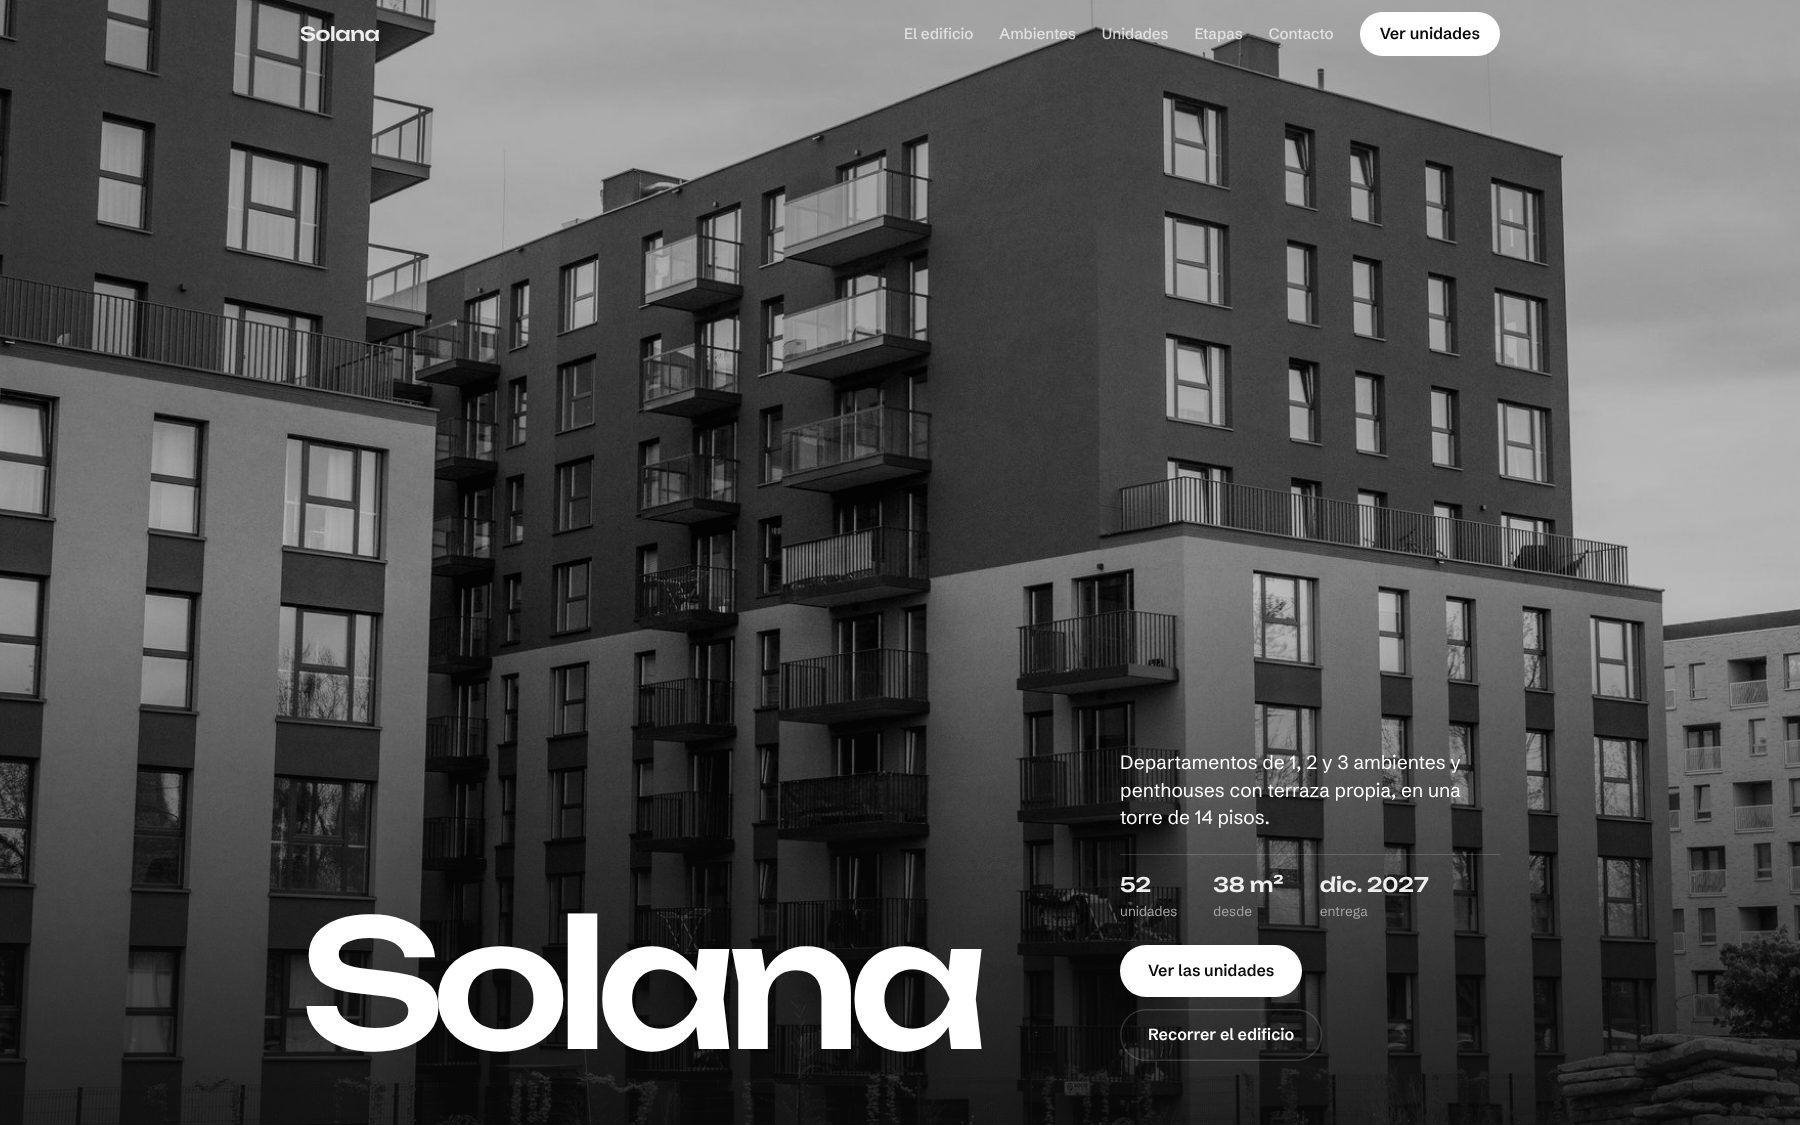
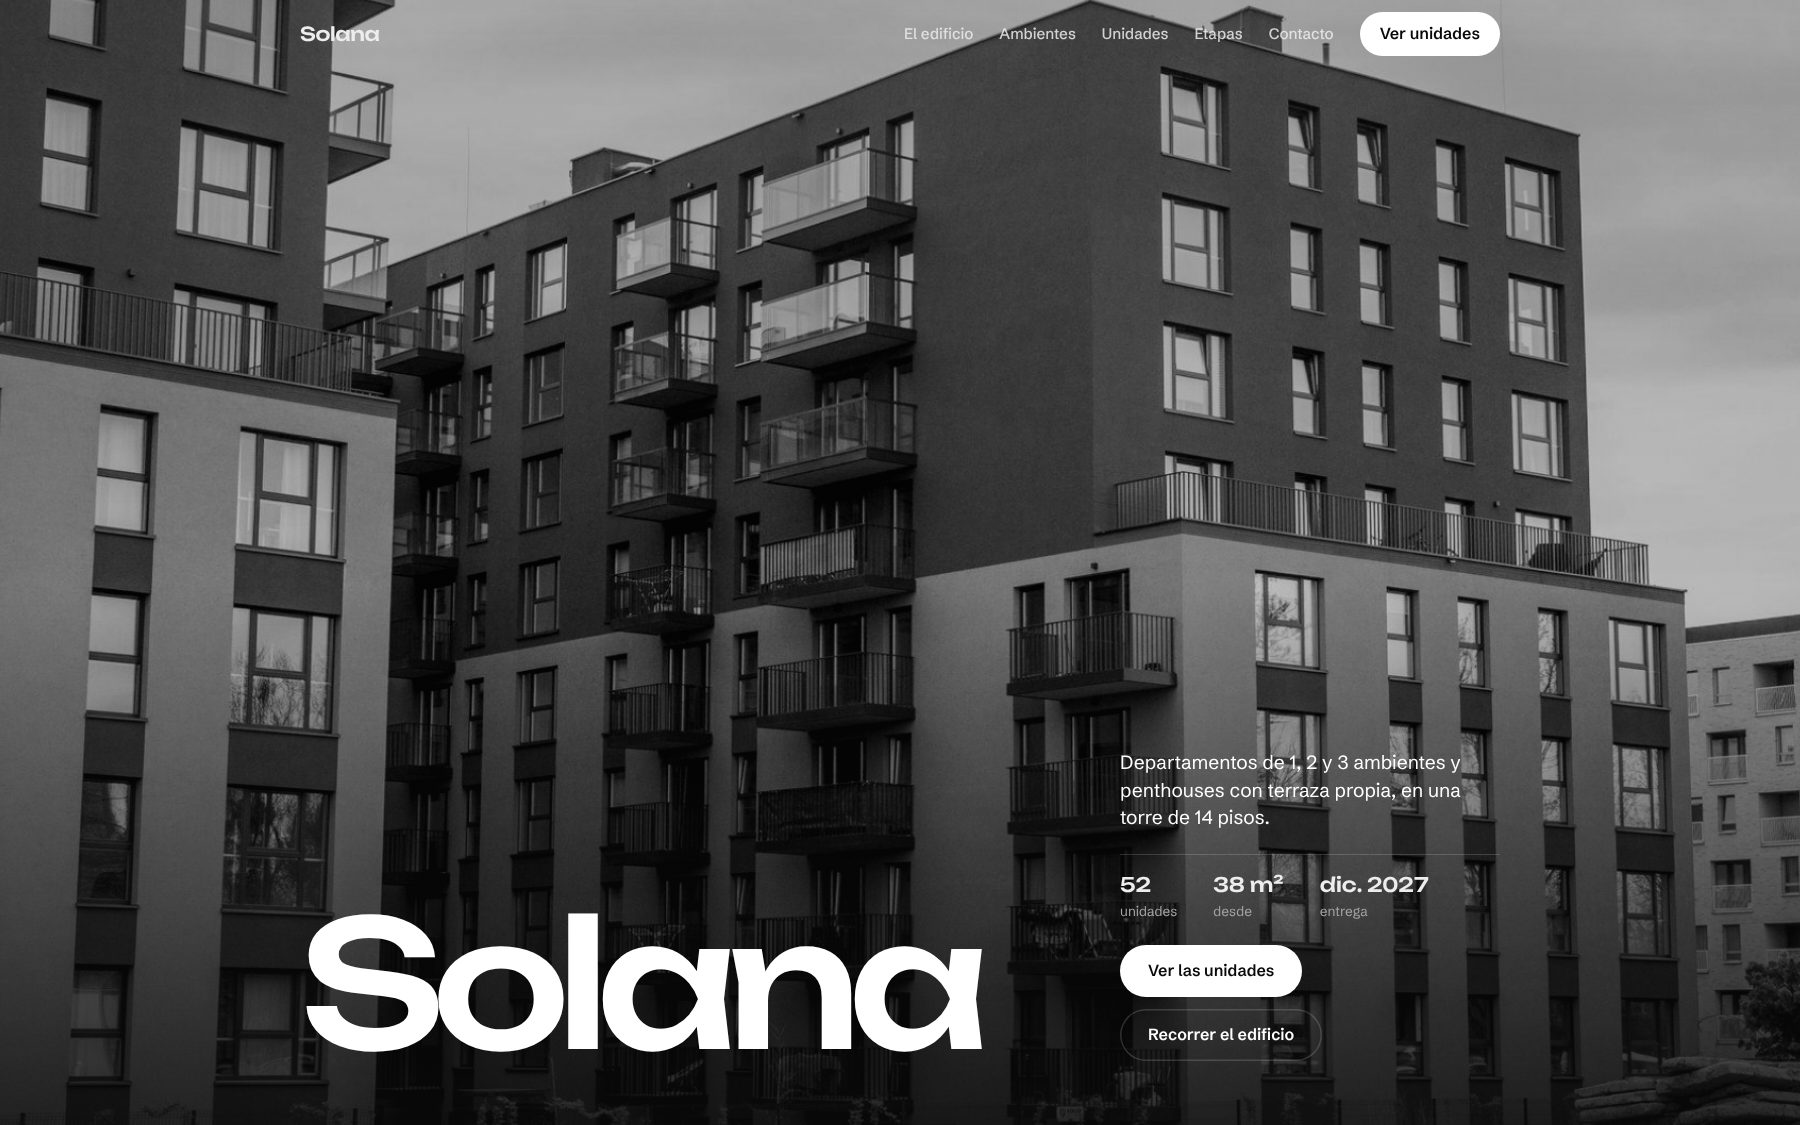
Arce: menús como La Feliz (catálogo, colecciones, nosotros) y secciones de taller, materiales y tienda; Lumen reordena proyectos
Claude-Session: https://claude.ai/code/session_01Heo4jEQcTih4G2tBioNUKb

diff --git a/sitio/lumen-studio/catalogo/index.html b/sitio/lumen-studio/catalogo/index.html
@@ -232,6 +232,32 @@
   .mega-links{display:flex;flex-direction:column;border-bottom:1px solid var(--linea)}
   .mega-links a{min-height:48px;display:flex;align-items:center;font-size:1.15rem;font-weight:500}
   @media (max-width:900px){.solo-m{display:inline-flex!important}.mega-links{display:flex}}
+
+  .mega-cat{display:grid;grid-template-columns:200px minmax(0,1.4fr) minmax(0,3fr);gap:clamp(24px,4vw,56px);padding-top:22px}
+  .mega-cat ul{list-style:none}
+  .mc-sel button,.mc-cats button{min-height:40px;font-size:1.1rem;font-weight:500;text-align:left}
+  .mc-cats{columns:2;column-gap:36px}
+  .mc-cats button{font-size:1.05rem;display:block;width:100%}
+  @media (hover:hover){.mc-sel button:hover,.mc-cats button:hover{text-decoration:underline;text-underline-offset:5px}}
+  .mega-g.sub{padding-top:18px;gap:22px}
+  .mega-g.c4{grid-template-columns:repeat(4,minmax(0,1fr))}
+  .mega-g.sub button{aspect-ratio:auto;overflow:visible;color:inherit;background:none;border-radius:0;display:grid;gap:10px;align-content:start}
+  .mega-g.sub button::after{display:none}
+  .mega-g.sub .im{position:relative;display:block;aspect-ratio:4/3;overflow:hidden;border-radius:16px;background:var(--papel-2)}
+  .mega-g.sub .im img{position:absolute;inset:0;width:100%;height:100%;object-fit:cover}
+  .mega-g.sub b{font-weight:500;font-size:1.2rem;letter-spacing:-.01em}
+  .mega-g.sub:not(.c4){grid-template-columns:repeat(4,minmax(0,1fr))}
+  @media (max-width:900px){.mega-cat{grid-template-columns:minmax(0,1fr)}.mega-g.c4,.mega-g.sub:not(.c4){grid-template-columns:repeat(2,minmax(0,1fr))}.mc-cats{columns:2}}
+
+  .galeria{padding-block:clamp(48px,7vw,96px) 0}
+  .galeria h2{font-size:1.5rem;font-weight:500;margin-bottom:20px}
+  .gal-g{display:grid;grid-template-columns:repeat(4,minmax(0,1fr));gap:clamp(10px,1.4vw,18px)}
+  .gal-g img{width:100%;aspect-ratio:1;object-fit:cover;border-radius:16px}
+  @media (max-width:700px){.gal-g{grid-template-columns:repeat(2,minmax(0,1fr))}}
+  .lista{padding-block:clamp(56px,8vw,110px);text-align:center}
+  .lista h2{font-size:clamp(1.6rem,3vw,2.4rem)}
+  .lista p{color:var(--suave);margin:10px auto 22px;max-width:46ch}
+  .lista .btn-o{align-self:auto}
 </style>
 </head>
 <body>
@@ -248,9 +274,15 @@
   </div>
   <div class="mega" id="mega" aria-label="Menú">
     <div class="mega-links solo-m"><a href="#/catalogo">Ver todo el catálogo</a><a href="#contacto">Contacto</a></div>
-    <section class="mega-p" data-p="cat"><p class="mega-t">Categorías</p><div class="mega-g" id="mg-cat"></div></section>
+    <section class="mega-p" data-p="cat">
+      <div class="mega-cat">
+        <ul class="mc-sel"><li><button type="button" data-t="d">Destacados</button></li><li><button type="button" data-t="c">Clásicos</button></li><li><button type="button" data-t="n">Nuevos</button></li></ul>
+        <div><p class="mega-t" style="margin-top:0">Categorías</p><ul class="mc-cats" id="mc-cats"></ul></div>
+        <div class="mega-g sub" id="mg-cat"></div>
+      </div>
+    </section>
     <section class="mega-p" data-p="col"><p class="mega-t">Últimas colecciones</p><div class="mega-g" id="mega-g"></div></section>
-    <section class="mega-p" data-p="nos"><p class="mega-t">Conocé Arce</p><div class="mega-g" id="mg-nos"></div></section>
+    <section class="mega-p" data-p="nos"><div class="mega-g sub c4" id="mg-nos"></div></section>
   </div>
 </header>
 
@@ -296,8 +328,28 @@
   </section>
 
   <section class="div2 inv" id="taller">
-    <div class="img"><img src="img/dormitorio.jpg" alt="Dormitorio luminoso con cama y cortinas" loading="lazy" width="1500" height="1000"></div>
-    <div class="info"><small>Nuestro taller</small><h2>Diseñamos, fabricamos y probamos cada pieza</h2><p>Trabajamos con maderas macizas, piedra y tapizados en lino. Cada pieza se hace por encargo y se entrega armada.</p><button type="button" class="btn-o" data-ir="Habitación">Ver piezas de habitación</button></div>
+    <div class="img"><img src="img/taller.jpg" alt="Manos lijando una pieza de madera en el taller" loading="lazy" width="1400" height="933"></div>
+    <div class="info"><small>Nuestro taller</small><h2>Diseñamos, fabricamos y probamos cada pieza</h2><p>Trabajamos con maderas macizas, piedra y tapizados en lino. Cada pieza se hace por encargo y se entrega armada.</p><button type="button" class="btn-o" data-ir="">Ver el catálogo</button></div>
+  </section>
+
+  <section class="div2" id="materiales">
+    <div class="img"><img src="img/materiales.jpg" alt="Primer plano de una piedra con vetas suaves" loading="lazy" width="1050" height="1400" style="object-position:50% 40%"></div>
+    <div class="info"><small>Materiales</small><h2>Piedra, madera y lino, elegidos a mano</h2><p>Antes de fabricar, mostramos las muestras en el taller para que elijas el acabado de cada pieza.</p><button type="button" class="btn-o" data-ir="">Ver el catálogo</button></div>
+  </section>
+
+  <section class="galeria w">
+    <h2>En el taller</h2>
+    <div class="gal-g">
+      <img src="img/diseno.jpg" alt="Manos dibujando el boceto de una pieza" loading="lazy" width="1400" height="933">
+      <img src="img/cepillo.jpg" alt="Cepillado de una tabla de madera" loading="lazy" width="1400" height="933">
+      <img src="img/muestras.jpg" alt="Muestras de telas, maderas y piedras" loading="lazy" width="1400" height="933">
+      <img src="img/travertino.jpg" alt="Primer plano de una piedra con vetas anaranjadas" loading="lazy" width="933" height="1400">
+    </div>
+  </section>
+
+  <section class="div2 inv" id="tienda">
+    <div class="img"><img src="img/tienda.jpg" alt="Rincón del showroom con un sillón y un arco" loading="lazy" width="935" height="1400" style="object-position:50% 60%"></div>
+    <div class="info"><small>Nuestra tienda</small><h2>Vení a conocer nuestro espacio</h2><p>Avenida del Sol 1200. De lunes a sábado, de 10 a 19 h. Podés ver las piezas y las muestras de materiales.</p><a class="btn-o" href="https://www.google.com/maps/search/?api=1&query=Avenida%20del%20Sol%201200" target="_blank" rel="noopener">Cómo llegar</a></div>
   </section>
 
   <section class="hecho" id="hecho">
@@ -306,6 +358,11 @@
       <div><h3>Entrega y armado</h3><p>Llevamos las piezas a tu casa y las dejamos armadas en su lugar.</p></div>
       <div><h3>Presupuesto sin cargo</h3><p>Sumá lo que te interese a tu presupuesto y lo enviás por WhatsApp para coordinar.</p></div>
     </div>
+  </section>
+  <section class="lista w">
+    <h2>Enterate de las novedades</h2>
+    <p>Escribinos y te avisamos cuando haya nuevas colecciones o piezas disponibles.</p>
+    <a class="btn-o" href="https://wa.me/5491100000000?text=%C2%A1Hola!%20Quiero%20recibir%20las%20novedades%20de%20Arce.%20Muchas%20gracias." target="_blank" rel="noopener">Quiero recibir novedades</a>
   </section>
 </main>
 
@@ -326,7 +383,7 @@
   <div class="pie">© 2026 Arce</div>
 </footer>
 
-<div hidden id="fuentes-img"><img data-k="living" src="img/living.jpg" alt=""><img data-k="mesas" src="img/mesas.jpg" alt=""><img data-k="comedor" src="img/comedor.jpg" alt=""><img data-k="cocina" src="img/cocina.jpg" alt=""><img data-k="barra" src="img/barra.jpg" alt=""><img data-k="cama" src="img/cama.jpg" alt=""><img data-k="lampara" src="img/lampara.jpg" alt=""><img data-k="dormitorio" src="img/dormitorio.jpg" alt=""></div>
+<div hidden id="fuentes-img"><img data-k="taller" src="img/taller.jpg" alt=""><img data-k="diseno" src="img/diseno.jpg" alt=""><img data-k="materiales" src="img/materiales.jpg" alt=""><img data-k="estudio" src="img/estudio.jpg" alt=""><img data-k="tienda" src="img/tienda.jpg" alt=""><img data-k="cepillo" src="img/cepillo.jpg" alt=""><img data-k="muestras" src="img/muestras.jpg" alt=""><img data-k="travertino" src="img/travertino.jpg" alt=""><img data-k="living" src="img/living.jpg" alt=""><img data-k="mesas" src="img/mesas.jpg" alt=""><img data-k="comedor" src="img/comedor.jpg" alt=""><img data-k="cocina" src="img/cocina.jpg" alt=""><img data-k="barra" src="img/barra.jpg" alt=""><img data-k="cama" src="img/cama.jpg" alt=""><img data-k="lampara" src="img/lampara.jpg" alt=""><img data-k="dormitorio" src="img/dormitorio.jpg" alt=""></div>
 <div class="vel" id="vel"></div>
 <aside class="caj" id="caj-pres" role="dialog" aria-modal="true" aria-label="Presupuesto" aria-hidden="true">
   <div class="caj-c"><h2>Presupuesto</h2><button type="button" data-cerrar aria-label="Cerrar">×</button></div>
@@ -397,6 +454,7 @@
   }
   function coincide(p){
     if (F.q && (p.n + " " + p.k + " " + p.col + " " + p.c.join(" ")).toLowerCase().indexOf(F.q.toLowerCase()) < 0) return false;
+    if (F.t && p.t.indexOf(F.t) < 0) return false;
     if (F.k.length && F.k.indexOf(p.k) < 0) return false;
     if (F.col.length && F.col.indexOf(p.col) < 0) return false;
     if (F.amb.length && !p.c.some(function(a){ return F.amb.indexOf(a) > -1; })) return false;
@@ -414,7 +472,7 @@
     pintarCat();
   });
   document.addEventListener("click", function(e){
-    if (e.target.closest("#limpiar")){ F.k = []; F.col = []; F.amb = []; F.q = ""; $("q").value = ""; pintarCat(); }
+    if (e.target.closest("#limpiar")){ F.k = []; F.col = []; F.amb = []; F.q = ""; F.t = ""; $("q").value = ""; pintarCat(); }
     if (e.target.closest("#b-filtros")){ var f = $("filtros"); var ab = f.classList.toggle("ab"); e.target.closest("#b-filtros").setAttribute("aria-expanded", String(ab)); }
   });
   function ir(ambiente){ F = { k: [], col: [], amb: ambiente ? [ambiente] : [], q: "" }; $("q").value = ""; if (location.hash === "#/catalogo") pintarCat(); else location.hash = "#/catalogo"; }
@@ -502,16 +560,13 @@
 
   /* ---- menús desplegables: catálogo, colecciones y nosotros ---- */
   (function(){
-    function unoPor(campo, orden){ var r = [], v = {}; PROD.forEach(function(p){ if (!v[p[campo]]){ v[p[campo]] = 1; r.push(p); } }); return orden ? orden.map(function(n){ return r.filter(function(p){ return p[campo] === n; })[0]; }).filter(Boolean) : r; }
+    function unoPor(campo){ var r = [], v = {}; PROD.forEach(function(p){ if (!v[p[campo]]){ v[p[campo]] = 1; r.push(p); } }); return r; }
     function tarj(img, ox, oy, z, texto, attr){ return '<button type="button" ' + attr + '><img src="' + src(img) + '" alt="" loading="lazy" style="--z:' + z + ';--ox:' + ox + '%;--oy:' + oy + '%"><span>' + texto + '</span></button>'; }
-    $("mg-cat").innerHTML = unoPor("k", ["Sofás", "Mesas", "Sillas y banquetas", "Lámparas", "Camas"]).map(function(p){ return tarj(p.img, p.ox, p.oy, Math.max(1.2, p.z * .8), p.k, 'data-k="' + p.k + '"'); }).join("");
+    function tarj2(img, ox, oy, texto, attr){ return '<button type="button" ' + attr + '><span class="im"><img src="' + src(img) + '" alt="" loading="lazy" style="object-position:' + ox + '% ' + oy + '%"></span><b>' + texto + '</b></button>'; }
+    $("mc-cats").innerHTML = ["Sofás", "Mesas", "Sillas y banquetas", "Sillones y otomanos", "Lámparas", "Camas", "Alfombras", "Muebles de guardado", "Objetos"].map(function(k){ return '<li><button type="button" data-k="' + k + '">' + k + '</button></li>'; }).join("");
+    $("mg-cat").innerHTML = [["living", 70, 62, "Living"], ["comedor", 55, 70, "Comedor"], ["cama", 20, 70, "Habitación"], ["cocina", 70, 70, "Cocina"]].map(function(a){ return tarj2(a[0], a[1], a[2], a[3], 'data-amb="' + a[3] + '"'); }).join("");
     $("mega-g").innerHTML = unoPor("col").slice(0, 5).map(function(p){ return tarj(p.img, p.ox, p.oy, Math.max(1.2, p.z * .8), p.col, 'data-col="' + p.col + '"'); }).join("");
-    $("mg-nos").innerHTML = [
-      ["dormitorio", 50, 60, 1.1, "Nuestro taller", "#taller"],
-      ["barra", 40, 60, 1.3, "Por encargo", "#hecho"],
-      ["living", 70, 60, 1.2, "Entrega y armado", "#hecho"],
-      ["comedor", 55, 65, 1.3, "Contacto", "#contacto"]
-    ].map(function(a){ return tarj(a[0], a[1], a[2], a[3], a[4], 'data-href="' + a[5] + '"'); }).join("");
+    $("mg-nos").innerHTML = [["estudio", 50, 50, "Quiénes somos", "#taller"], ["diseno", 50, 50, "Diseño", "#taller"], ["taller", 50, 50, "Taller", "#taller"], ["materiales", 50, 50, "Materiales", "#materiales"]].map(function(a){ return tarj2(a[0], a[1], a[2], a[3], 'data-href="' + a[4] + '"'); }).join("");
     var h = $("cab"), m = $("mega"), btns = [].slice.call(document.querySelectorAll("[data-mega]")), bm = $("b-menu"), t;
     function abrirM(k){ clearTimeout(t); m.dataset.act = k; h.classList.add("abre-mega"); btns.forEach(function(b){ b.setAttribute("aria-expanded", String(b.dataset.mega === k)); }); }
     function cerrarM(){ clearTimeout(t); h.classList.remove("abre-mega"); delete m.dataset.act; btns.forEach(function(b){ b.setAttribute("aria-expanded", "false"); }); bm.setAttribute("aria-expanded", "false"); }
@@ -527,10 +582,10 @@
     bm.addEventListener("click", function(){ if (h.classList.contains("abre-mega")) cerrarM(); else { abrirM("col"); bm.setAttribute("aria-expanded", "true"); } });
     document.addEventListener("keydown", function(e){ if (e.key === "Escape") cerrarM(); });
     document.addEventListener("click", function(e){
-      var c = e.target.closest("[data-col],[data-k],[data-href]"); if (!c || !m.contains(c)) { if (e.target.closest("#mega a")) cerrarM(); return; }
+      var c = e.target.closest("[data-col],[data-k],[data-href],[data-amb],[data-t]"); if (!c || !m.contains(c)) { if (e.target.closest("#mega a")) cerrarM(); return; }
       cerrarM();
       if (c.dataset.href){ if (location.hash === c.dataset.href){ var el = document.getElementById(c.dataset.href.slice(1)); if (el) el.scrollIntoView(); } else location.hash = c.dataset.href; return; }
-      F = { k: c.dataset.k ? [c.dataset.k] : [], col: c.dataset.col ? [c.dataset.col] : [], amb: [], q: "" }; $("q").value = "";
+      F = { k: c.dataset.k ? [c.dataset.k] : [], col: c.dataset.col ? [c.dataset.col] : [], amb: c.dataset.amb ? [c.dataset.amb] : [], q: "", t: c.dataset.t || "" }; $("q").value = "";
       if (location.hash === "#/catalogo") pintarCat(); else location.hash = "#/catalogo";
     });
   })();

diff --git a/sitio/lumen-studio/index.html b/sitio/lumen-studio/index.html
@@ -74,31 +74,13 @@
     <div class="container">
       <div class="section-head"><h2>Proyectos</h2></div>
       <div class="expand crop" id="expand" role="group" aria-label="Trabajos, pasá el cursor o tocá para ver cada uno">
-        <article class="x-panel" role="button" tabindex="0" aria-expanded="true" aria-label="Oliva Atelier">
-          <img src="img/oliva-desk.jpg" alt="Oliva Atelier, página con reserva de turnos" width="1800" height="1125" loading="lazy">
-          <p class="x-rotulo">Oliva Atelier</p>
+        <article class="x-panel" role="button" tabindex="0" aria-expanded="true" aria-label="Solana">
+          <img src="img/solana-desk.jpg" alt="Solana, sitio de un desarrollo inmobiliario con la foto del edificio a pantalla completa" width="1800" height="1125" loading="lazy">
+          <p class="x-rotulo">Solana</p>
           <div class="x-detalle">
-            <h3>Oliva Atelier</h3>
-            <p>Sitio con reserva de turnos y un panel para administrarlos, con una marca de ejemplo de manicuría y pedicuría. Probalo vos mismo con datos de muestra.</p>
-            <div class="x-acciones"><a class="btn btn--small x-btn" href="oliva/" target="_blank" rel="noopener">Probar la demo</a><a class="btn btn--small x-btn" href="oliva/#/panel/login" target="_blank" rel="noopener">Ver el panel de control</a></div>
-          </div>
-        </article>
-        <article class="x-panel" role="button" tabindex="0" aria-expanded="false" aria-label="Anima Center">
-          <img src="img/gymflow-socios.jpg" alt="Anima Center, tablero con indicadores, altas por mes y estado de los socios" width="1600" height="1200" loading="lazy">
-          <p class="x-rotulo">Anima Center</p>
-          <div class="x-detalle">
-            <h3>Anima Center</h3>
-            <p>Gestor de membresías para gimnasios: socios, cuotas, caja y calendario en un solo lugar. Probalo vos mismo con datos de ejemplo.</p>
-            <a class="btn btn--small x-btn" href="gymflow/" target="_blank" rel="noopener">Probar la demo</a>
-          </div>
-        </article>
-        <article class="x-panel" role="button" tabindex="0" aria-expanded="false" aria-label="Brío Dental">
-          <img src="img/dental-desk.jpg" alt="Brío Dental, sitio de un consultorio odontológico con pedido de turno" width="1800" height="1125" loading="lazy">
-          <p class="x-rotulo">Brío Dental</p>
-          <div class="x-detalle">
-            <h3>Brío Dental</h3>
-            <p>Sitio para un consultorio odontológico, con tratamientos y pedido de turno por pasos. Una marca de ejemplo para probar.</p>
-            <a class="btn btn--small x-btn" href="demos/ejemplo-dentista/" target="_blank" rel="noopener">Probar la demo</a>
+            <h3>Solana</h3>
+            <p>Sitio para un desarrollo inmobiliario: recorrido del edificio con el scroll, unidades con plano y precio, avance de obra y consulta por WhatsApp. Una marca de ejemplo para probar.</p>
+            <a class="btn btn--small x-btn" href="residencias/" target="_blank" rel="noopener">Probar la demo</a>
           </div>
         </article>
         <article class="x-panel" role="button" tabindex="0" aria-expanded="false" aria-label="Saldo">
@@ -119,13 +101,22 @@
             <a class="btn btn--small x-btn" href="catalogo/" target="_blank" rel="noopener">Probar la demo</a>
           </div>
         </article>
-        <article class="x-panel" role="button" tabindex="0" aria-expanded="false" aria-label="Solana">
-          <img src="img/solana-desk.jpg" alt="Solana, sitio de un desarrollo inmobiliario con la foto del edificio a pantalla completa" width="1800" height="1125" loading="lazy">
-          <p class="x-rotulo">Solana</p>
+        <article class="x-panel" role="button" tabindex="0" aria-expanded="false" aria-label="Oliva Atelier">
+          <img src="img/oliva-desk.jpg" alt="Oliva Atelier, página con reserva de turnos" width="1800" height="1125" loading="lazy">
+          <p class="x-rotulo">Oliva Atelier</p>
           <div class="x-detalle">
-            <h3>Solana</h3>
-            <p>Sitio para un desarrollo inmobiliario: recorrido del edificio con el scroll, unidades con plano y precio, avance de obra y consulta por WhatsApp. Una marca de ejemplo para probar.</p>
-            <a class="btn btn--small x-btn" href="residencias/" target="_blank" rel="noopener">Probar la demo</a>
+            <h3>Oliva Atelier</h3>
+            <p>Sitio con reserva de turnos y un panel para administrarlos, con una marca de ejemplo de manicuría y pedicuría. Probalo vos mismo con datos de muestra.</p>
+            <div class="x-acciones"><a class="btn btn--small x-btn" href="oliva/" target="_blank" rel="noopener">Probar la demo</a><a class="btn btn--small x-btn" href="oliva/#/panel/login" target="_blank" rel="noopener">Ver el panel de control</a></div>
+          </div>
+        </article>
+        <article class="x-panel" role="button" tabindex="0" aria-expanded="false" aria-label="Brío Dental">
+          <img src="img/dental-desk.jpg" alt="Brío Dental, sitio de un consultorio odontológico con pedido de turno" width="1800" height="1125" loading="lazy">
+          <p class="x-rotulo">Brío Dental</p>
+          <div class="x-detalle">
+            <h3>Brío Dental</h3>
+            <p>Sitio para un consultorio odontológico, con tratamientos y pedido de turno por pasos. Una marca de ejemplo para probar.</p>
+            <a class="btn btn--small x-btn" href="demos/ejemplo-dentista/" target="_blank" rel="noopener">Probar la demo</a>
           </div>
         </article>
         <article class="x-panel" role="button" tabindex="0" aria-expanded="false" aria-label="R&amp;RG Estudio Jurídico">
@@ -135,6 +126,15 @@
             <h3>R&amp;RG Estudio Jurídico</h3>
             <p>Propuesta de rediseño para un estudio de abogados de Resistencia, Chaco, con sus colores y su logo.</p>
             <a class="btn btn--small x-btn" href="rrg/" target="_blank" rel="noopener">Ver la propuesta</a>
+          </div>
+        </article>
+        <article class="x-panel" role="button" tabindex="0" aria-expanded="false" aria-label="Anima Center">
+          <img src="img/gymflow-socios.jpg" alt="Anima Center, tablero con indicadores, altas por mes y estado de los socios" width="1600" height="1200" loading="lazy">
+          <p class="x-rotulo">Anima Center</p>
+          <div class="x-detalle">
+            <h3>Anima Center</h3>
+            <p>Gestor de membresías para gimnasios: socios, cuotas, caja y calendario en un solo lugar. Probalo vos mismo con datos de ejemplo.</p>
+            <a class="btn btn--small x-btn" href="gymflow/" target="_blank" rel="noopener">Probar la demo</a>
           </div>
         </article>
       </div>
